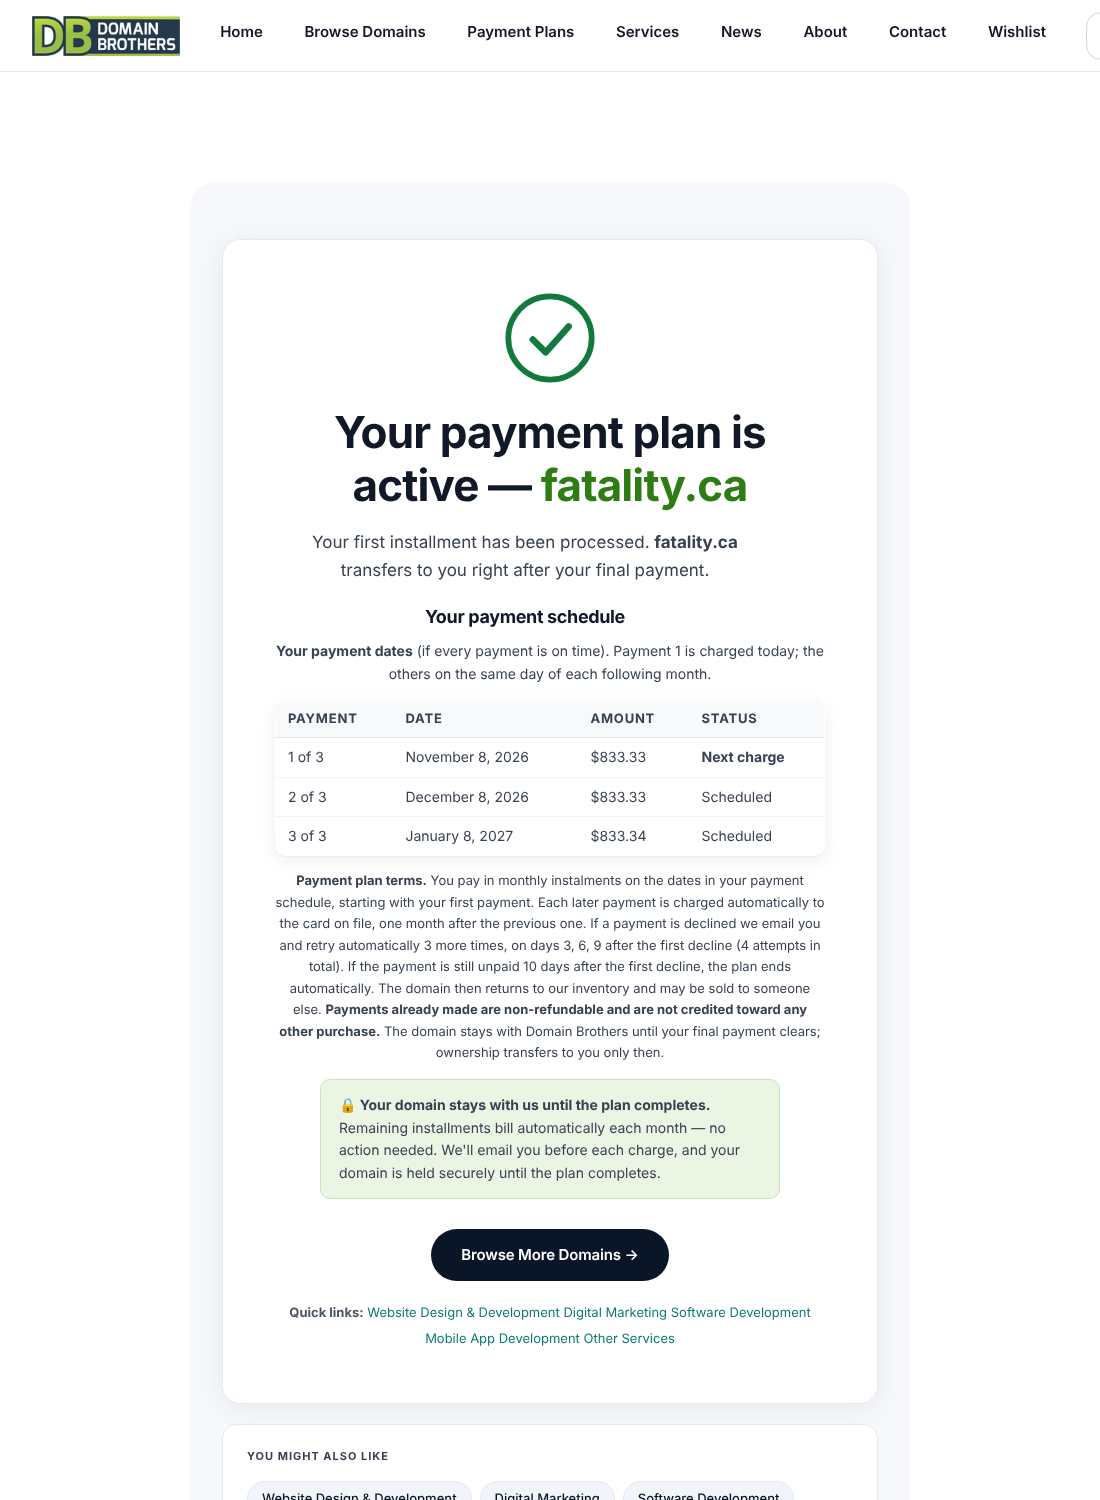
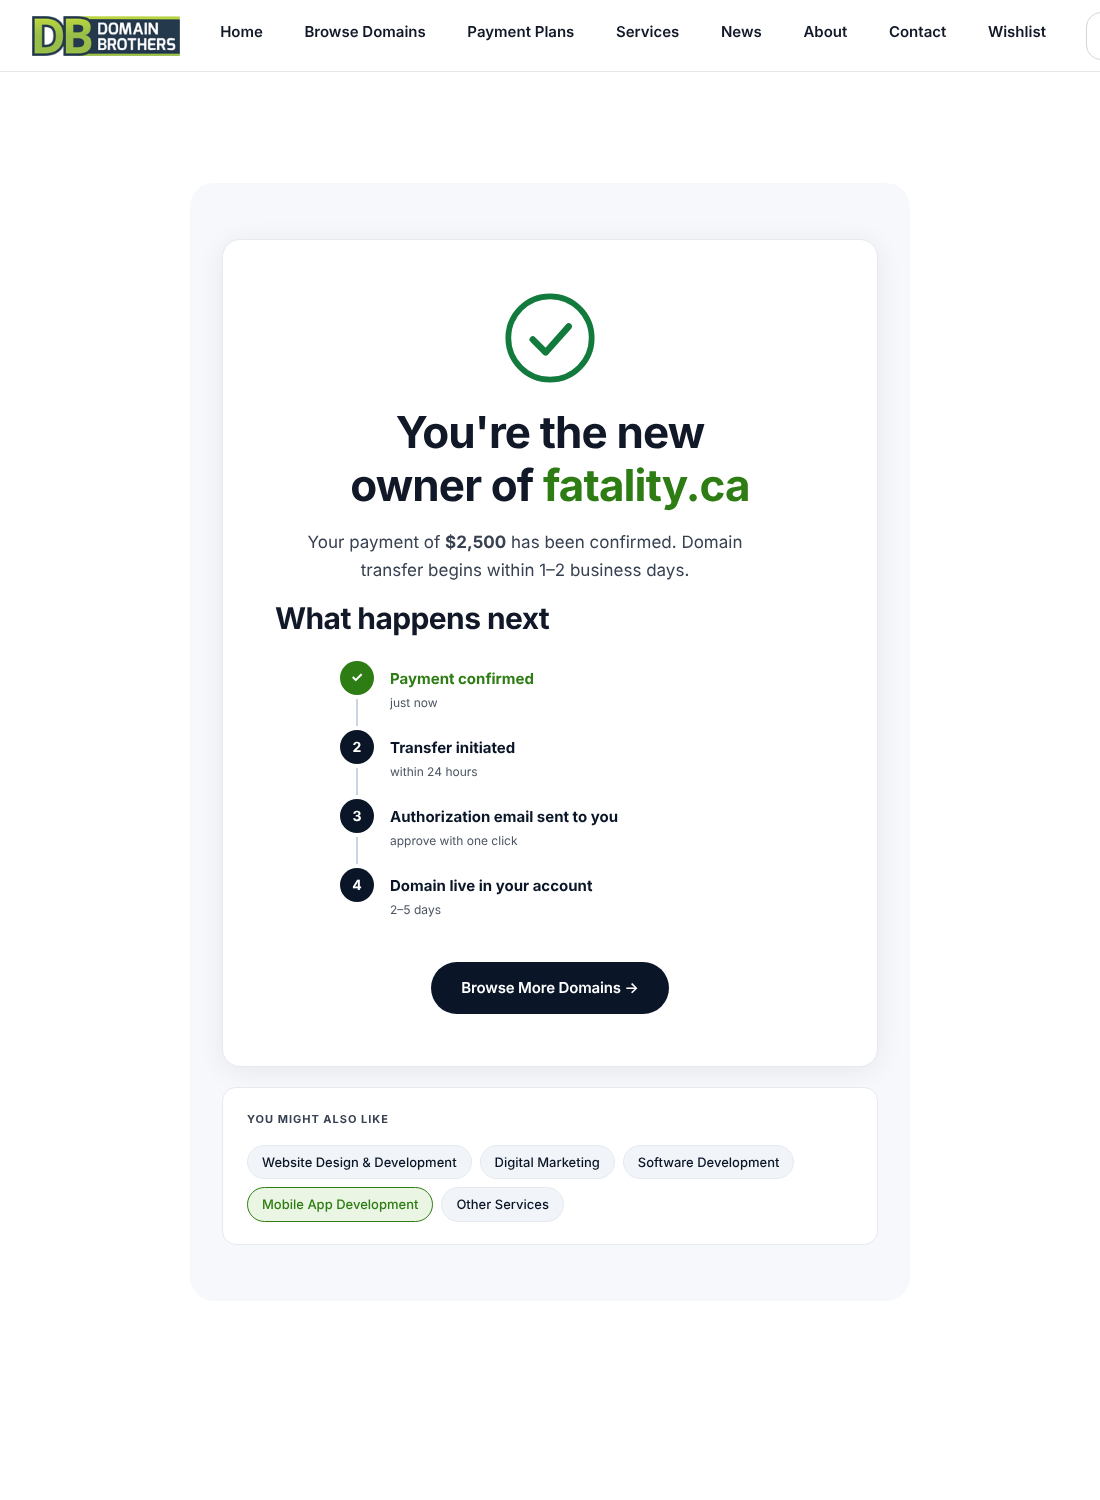
Funnel endpoint: exact experiment event names (sanitize_key lowercased them and refused valid clicks); v3.70.1
Claude-Session: https://claude.ai/code/session_01K6obJihKdmVCaNZTWGQrk7

diff --git a/tests/qa/sales-security.js b/tests/qa/sales-security.js
@@ -59,8 +59,6 @@ const check = (name, pass, detail = '') => { results.push({ name, pass }); conso
 	const r6 = await req.post(`${BASE}/wp-admin/admin-post.php`, { ...noRedirect, form: { action: 'db_ops_transfer_msg', _db_nonce: 'forged00', post_id: '1', body: 'hello' } });
 	check('buyer message with a forged nonce is refused (403)', r6.status() === 403, String(r6.status()));
 
-	const r7 = await req.post(`${BASE}/wp-admin/admin-post.php`, { ...noRedirect, form: { action: 'db_ops_transfer_msg', _db_nonce: 'forged00', post_id: '1', body: 'hello' } });
-	check('buyer message is never accepted without a valid nonce', r7.status() === 403);
 
 	await page.goto(`${BASE}/collections/canadian-names-for-business-under-5000/`, { waitUntil: 'domcontentloaded' });
 	const plain = await page.$$eval('.db-sales-result', (l) => l.length);

diff --git a/db-custom-blocks/db-custom-blocks.php b/db-custom-blocks/db-custom-blocks.php
@@ -3,7 +3,7 @@
  * Plugin Name: Domain Brothers Custom Blocks
  * Plugin URI:  https://beta.domainbrothers.com
  * Description: All Domain Brothers custom functionality — Stripe checkout & webhooks, CRM lead management, branded email system, thank-you flows, SMTP routing, offer flow, payment plans, modern UI, AEO/SEO, performance hardening, honeypot anti-spam, dynamic meta, and service pages.
- * Version:     3.70.0
+ * Version:     3.70.1
  * Author:      Domain Brothers
  * License:     Proprietary
  * Text Domain: db-blocks
@@ -26,7 +26,7 @@ if ( ! defined( 'ABSPATH' ) ) {
 if ( defined( 'DB_BLOCKS_LOADED' ) ) {
 	return;
 }
-define( 'DB_BLOCKS_LOADED', '3.70.0' );
+define( 'DB_BLOCKS_LOADED', '3.70.1' );
 
 if ( ! function_exists( 'db_brand_logo_url' ) ) {
 	/**

diff --git a/db-custom-blocks/db-sales-ops-block.php b/db-custom-blocks/db-sales-ops-block.php
@@ -438,7 +438,7 @@ add_action( 'rest_api_init', static function () {
 	register_rest_route( 'db/v1', '/funnel', array(
 		'methods'             => WP_REST_Server::CREATABLE,
 		'callback'            => function ( WP_REST_Request $r ) {
-			$ev = sanitize_key( (string) $r->get_param( 'ev' ) );
+			$ev = sanitize_text_field( (string) $r->get_param( 'ev' ) ); // Exact names only: sanitize_key would lowercase them.
 			if ( ! in_array( $ev, array( 'exp_view_A', 'exp_view_B', 'exp_click_A', 'exp_click_B' ), true ) ) {
 				return new WP_REST_Response( array( 'error' => 'unknown event' ), 400 );
 			}
